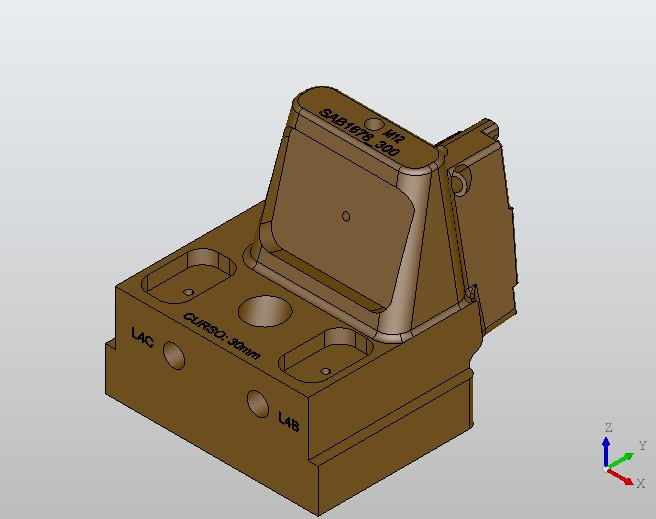
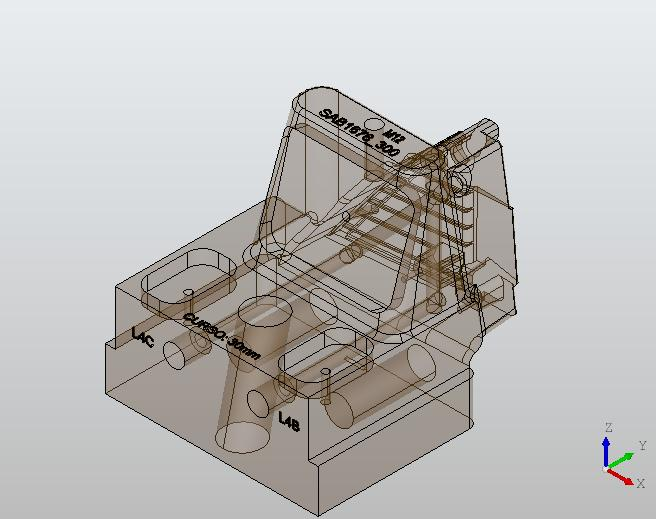
alteração no método de stp para jpeg

diff --git a/webapp/views.py b/webapp/views.py
@@ -1,25 +1,31 @@
 import os
 from django.conf import settings
 from django.shortcuts import render, redirect
+from multiprocessing import Pool, cpu_count
+
+# Bibliotecas da OCC (OpenCascade) para ler arquivos STEP e renderizar imagens
 from OCC.Core.STEPControl import STEPControl_Reader
 from OCC.Core.IFSelect import IFSelect_RetDone
 from OCC.Display.OCCViewer import OffscreenRenderer
 
-#Gerar jpegs (bom mudar o nome, to com preguiça agora)
+# Função responsável por gerar a imagem (preview) a partir de um arquivo .stp
 def gerar_preview_stp_para_png(caminho_stp, caminho_png):
-    
-    # Leitura do arquivo STEP
+    # Cria o leitor para arquivos STEP
     reader = STEPControl_Reader()
     status = reader.ReadFile(caminho_stp)
+    
+    # Verifica se o arquivo foi lido com sucesso
     if status != IFSelect_RetDone:
         raise Exception(f"Erro ao ler o arquivo STEP: {caminho_stp}")
+    
+    # Transfere o conteúdo do arquivo STEP para a variável shape (forma 3D)
     reader.TransferRoot()
     shape = reader.Shape()
 
-    # Inicializa o renderizador
+    # Inicializa o renderizador offscreen (sem janela gráfica)
     renderer = OffscreenRenderer(screen_size=(640, 480))
-    
-    # Exibe a forma e salva diretamente no caminho da imagem, alem de settar as configurações de como o visual do modelo é feito
+
+    # Exibe o modelo 3D e salva a imagem no caminho indicado
     renderer.DisplayShape(
         shapes=shape,
         transparency=0.7,
@@ -28,36 +34,55 @@ def gerar_preview_stp_para_png(caminho_stp, caminho_png):
         dump_image_filename=os.path.basename(caminho_png)
     )
 
-#Listar Modelos
+# Função chamada em paralelo para cada arquivo STEP
+def processar_preview(arquivo_info):
+    # Desempacota os dados
+    pasta_modelos, pasta_previews, arquivo = arquivo_info
+
+    # Define os caminhos para o arquivo STEP e a imagem JPEG correspondente
+    caminho_stp = os.path.join(pasta_modelos, arquivo)
+    nome_imagem = arquivo.replace('.stp', '.jpeg')
+    caminho_png = os.path.join(pasta_previews, nome_imagem)
+
+    try:
+        # Só gera nova imagem se não existir ou se o arquivo .stp foi modificado mais recentemente
+        if not os.path.exists(caminho_png) or os.path.getmtime(caminho_stp) > os.path.getmtime(caminho_png):
+            gerar_preview_stp_para_png(caminho_stp, caminho_png)
+
+        # Retorna um dicionário com as informações que serão exibidas no HTML
+        return {
+            'nome': arquivo,
+            'imagem_url': f"/media/modelos/previews/{nome_imagem}"
+        }
+
+    except Exception as e:
+        # Caso algo dê errado, mostra o erro no terminal e retorna None
+        print(f"Erro ao gerar preview para {arquivo}: {e}")
+        return None
+
+# View do Django que lista os modelos e seus previews
 def listar_modelos_step(request):
-    
-    # pega as pastas com os modelos stp e as previews(jpeg's)
+    # Define o caminho para a pasta com os modelos (.stp)
     pasta_modelos = os.path.join(settings.MEDIA_ROOT, 'modelos')
+    
+    # Pasta onde serão salvas as imagens (previews)
     pasta_previews = os.path.join(pasta_modelos, 'previews')
+    os.makedirs(pasta_previews, exist_ok=True)  # Cria se não existir
+
+    # Lista todos os arquivos .stp na pasta
     arquivos_stp = [f for f in os.listdir(pasta_modelos) if f.lower().endswith('.stp')]
 
-    #Inicia uma lista para armazenar os stp's e jpeg's
-    previews = []
-    for arquivo in arquivos_stp:
-        caminho_stp = os.path.join(pasta_modelos, arquivo)
-        nome_imagem = arquivo.replace('.stp', '.jpeg')
-        caminho_png = os.path.join(pasta_previews, nome_imagem)
+    # Prepara os dados que serão enviados para cada processo (arquivo + pastas)
+    args = [(pasta_modelos, pasta_previews, arquivo) for arquivo in arquivos_stp]
 
-        # gera apenas jpeg se ainda não existir
-        if not os.path.exists(caminho_png):  
-            try:
-                gerar_preview_stp_para_png(caminho_stp, caminho_png)
-            except Exception as e:
-                print(f"Erro ao gerar preview para {arquivo}: {e}")
-                continue
-        
-        #Cria as urls num apendice
-        previews.append({
-            'nome': arquivo,
-            'imagem_url': f"/media/modelos/previews/{nome_imagem}"  # URL correta
-        })
+    # Cria um pool de processos para acelerar o processamento usando múltiplos núcleos
+    with Pool(processes=cpu_count()) as pool:
+        resultados = pool.map(processar_preview, args)
 
-    # retorna o html das previews junto de um dicionarios com as previews
+    # Remove da lista os arquivos que falharam (None)
+    previews = [r for r in resultados if r]
+
+    # Renderiza a página HTML com as imagens geradas
     return render(request, 'visualizador/preview.html', {'previews': previews})
 
 # Metodo de Login
